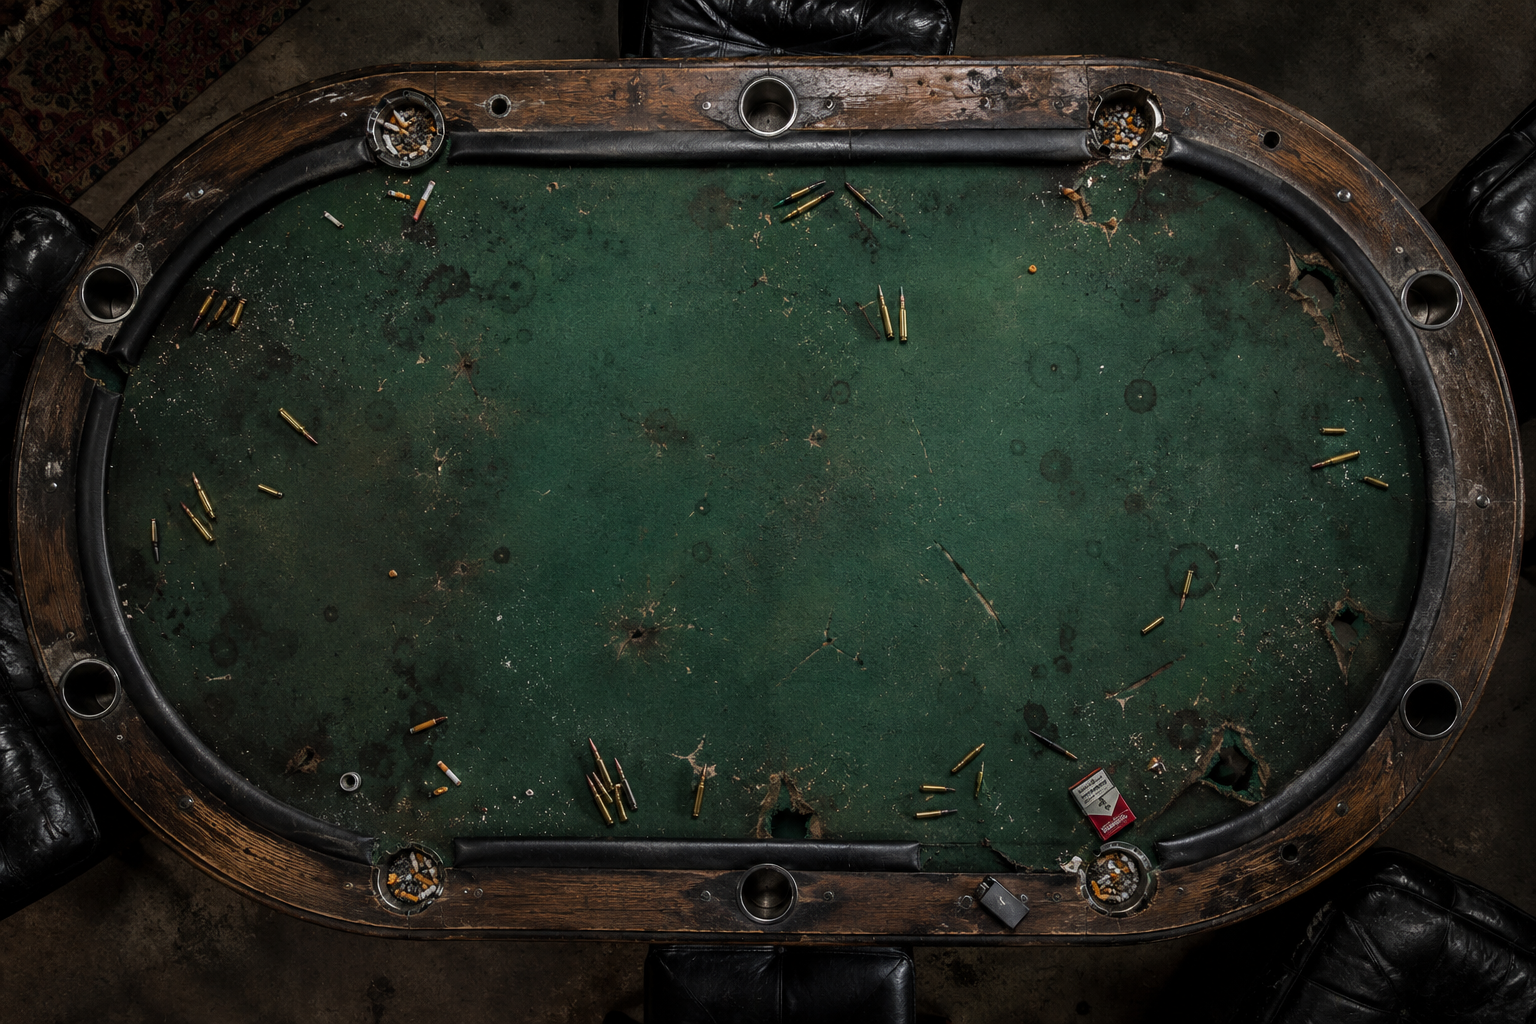
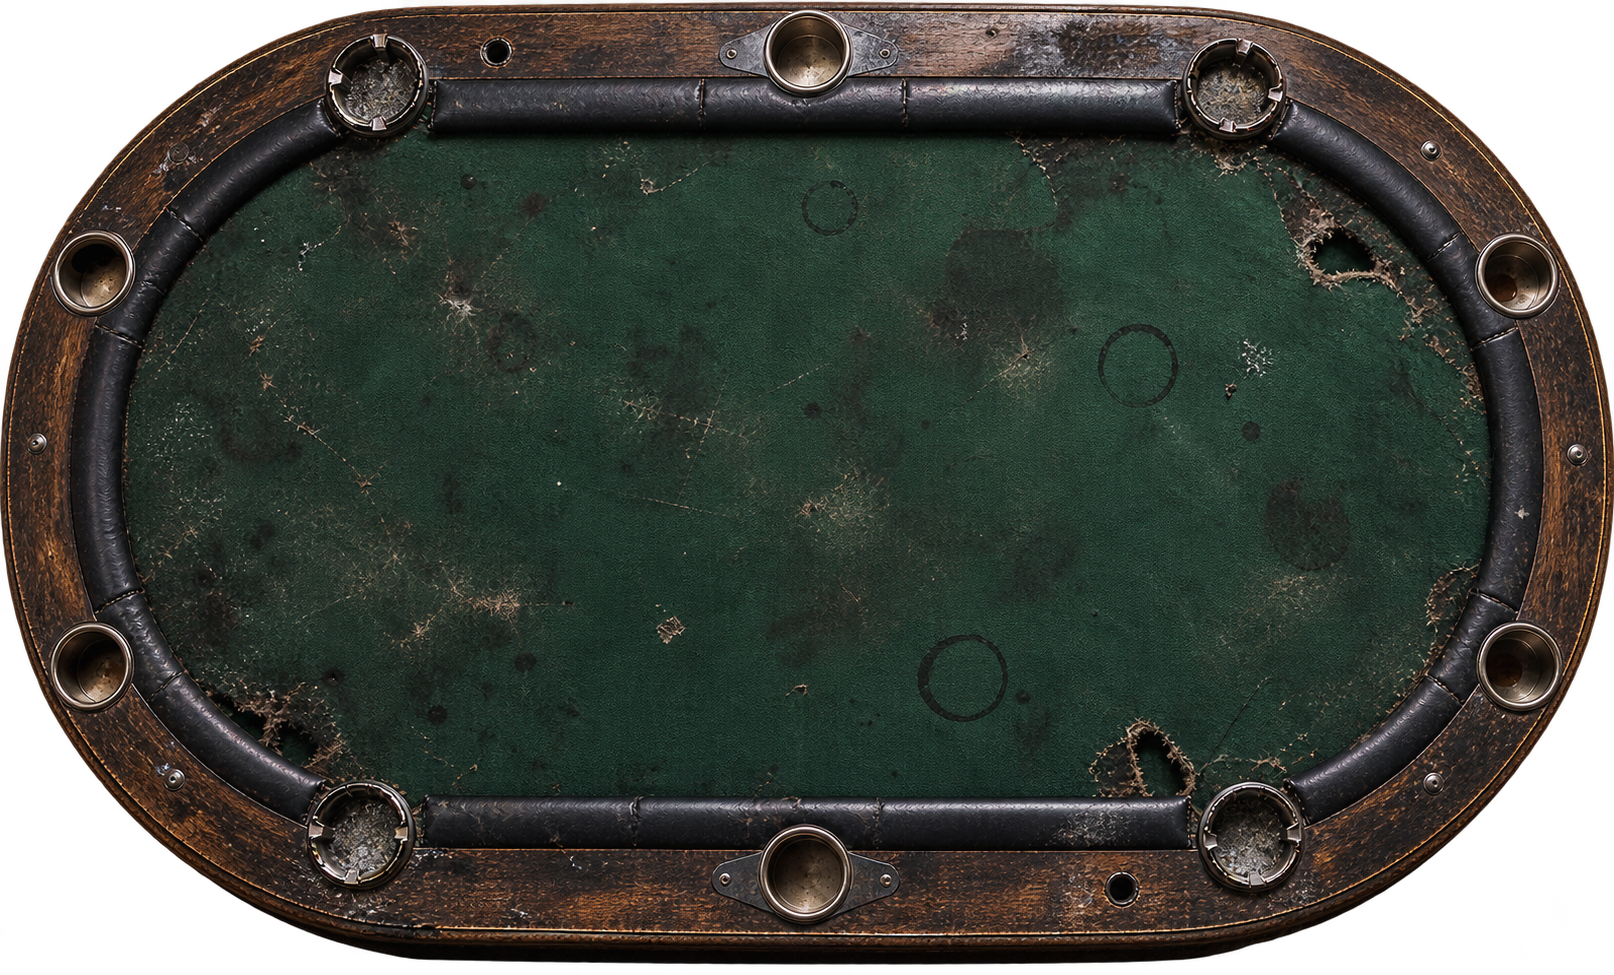
Put the controls under the table, and fade on the way out
The new table art is an oval cut out of its background, and an oval has
much less usable room than the rectangle around it. Measured off the
image rather than guessed: the cloth starts 8.4% in from the left,
7.9% from the right, 14.6% down and 18.7% up, leaving 1230 by 654 --
and it narrows to 58% of the table's width near the bottom edge. The
betting bar is 1340 wide and the layout wants 750 of height. None of it
fits.

So the cloth carries the dealer and the player's hands, and the betting
bar and buttons sit beneath the table on the dark. That is not a
concession to the artwork; it is how a real table is arranged, and it
gives the controls room they never had.

The painted rules are gone with it. They were flavour, and this felt
has plenty of its own.

Leaving the table also fades now. A full-screen dim and a table
disappearing between one frame and the next reads as a glitch rather
than as leaving; a sixth of a second is enough. Clicks are ignored
while it is on its way out, so a stray one cannot deal a hand at a
table that is closing, and the fade falls back to switching off
outright if there is no MonoBehaviour to run the coroutine.

diff --git a/src/Blackjack.Client/BlackjackPanel.cs b/src/Blackjack.Client/BlackjackPanel.cs
@@ -1,4 +1,5 @@
 using System;
+using System.Collections;
 using System.Collections.Generic;
 using System.Linq;
 using Newtonsoft.Json.Linq;
@@ -50,6 +51,8 @@ namespace Blackjack.Client
         private static RectTransform _actionRow;
         private static GameObject _betControls;
         private static GameObject _bettingSpot;
+        private static CanvasGroup _fade;
+        private static Coroutine _fading;
         private static GameObject _leave;
         private static GameObject _confirm;
         private static TextMeshProUGUI _confirmText;
@@ -105,6 +108,7 @@ namespace Blackjack.Client
                 }
 
                 _root.SetActive(true);
+                StartFade(1f, false);
 
                 // A canvas built this frame has not had a layout pass yet, so its
                 // controls have no real size or position until one happens. Anything
@@ -134,7 +138,63 @@ namespace Blackjack.Client
                 _confirm.SetActive(false);
             }
 
-            if (_root != null)
+            if (_root == null || !_root.activeSelf)
+            {
+                return;
+            }
+
+            // Faded rather than switched off. A full-screen dim and a table vanishing
+            // between one frame and the next reads as a glitch; a sixth of a second is
+            // enough to read as leaving.
+            StartFade(0f, true);
+        }
+
+        private static void StartFade(float target, bool deactivateAfter)
+        {
+            if (_fade == null || BlackjackClientPlugin.Instance == null)
+            {
+                // No coroutine to run it, so snap and stay correct.
+                if (_fade != null)
+                {
+                    _fade.alpha = target;
+                }
+
+                if (deactivateAfter && _root != null)
+                {
+                    _root.SetActive(false);
+                }
+
+                return;
+            }
+
+            if (_fading != null)
+            {
+                BlackjackClientPlugin.Instance.StopCoroutine(_fading);
+            }
+
+            _fading = BlackjackClientPlugin.Instance.StartCoroutine(FadeTo(target, deactivateAfter));
+        }
+
+        private static IEnumerator FadeTo(float target, bool deactivateAfter)
+        {
+            const float duration = 0.16f;
+            var from = _fade.alpha;
+
+            // Clicks are ignored while it is on its way out, so a stray one during the
+            // fade cannot deal a hand at a table that is closing.
+            _fade.interactable = !deactivateAfter;
+            _fade.blocksRaycasts = !deactivateAfter;
+
+            for (var t = 0f; t < duration; t += Time.unscaledDeltaTime)
+            {
+                _fade.alpha = Mathf.Lerp(from, target, t / duration);
+                yield return null;
+            }
+
+            _fade.alpha = target;
+            _fading = null;
+
+            if (deactivateAfter && _root != null)
             {
                 _root.SetActive(false);
             }
@@ -485,34 +545,54 @@ namespace Blackjack.Client
 
             _root = canvasObject;
 
+            _fade = canvasObject.AddComponent<CanvasGroup>();
+            _fade.alpha = 0f;
+
             var backdrop = NewBox("Backdrop", canvasObject.transform, new Color(0f, 0f, 0f, 0.86f), 0, default, 0);
             Stretch(backdrop);
 
-            // A photograph of a real table if one is installed beside the plugin,
-            // otherwise the drawn one. The photograph is a loose PNG so it can be
-            // swapped for another without rebuilding anything.
+            // The table above, the controls under it.
+            //
+            // The photograph is an oval, and an oval has far less usable room than the
+            // rectangle it sits in: measured, the felt is 1230 by 654 with the cloth
+            // narrowing to 58% of the table's width near the bottom edge. The betting
+            // bar is 1340 wide and the whole layout wants 750 of height, so none of it
+            // fits inside. Putting the cloth above and the controls beneath it is not a
+            // compromise either -- it is how a real table is arranged.
+            var root = NewBox("Root", canvasObject.transform, new Color(0f, 0f, 0f, 0f), 0, default, 0);
+            root.anchorMin = root.anchorMax = new Vector2(0.5f, 0.5f);
+            root.pivot = new Vector2(0.5f, 0.5f);
+            root.sizeDelta = new Vector2(1400f, 1060f);
+
+            var rootColumn = root.gameObject.AddComponent<VerticalLayoutGroup>();
+            rootColumn.childAlignment = TextAnchor.MiddleCenter;
+            rootColumn.spacing = 14f;
+            rootColumn.childForceExpandWidth = false;
+            rootColumn.childForceExpandHeight = false;
+            rootColumn.childControlWidth = false;
+            rootColumn.childControlHeight = false;
+
             var photo = Textures.FromFile(TableImagePath);
             RectTransform felt;
 
             if (photo != null)
             {
-                var table = NewImage("Table", canvasObject.transform, Color.white);
+                var table = NewImage("Table", root, Color.white);
                 table.sprite = photo;
                 table.preserveAspect = true;
                 var tableRect = (RectTransform)table.transform;
-                tableRect.anchorMin = tableRect.anchorMax = new Vector2(0.5f, 0.5f);
-                tableRect.pivot = new Vector2(0.5f, 0.5f);
-                tableRect.sizeDelta = new Vector2(1470f, 980f);
+                SetSize(tableRect, 1324f, 800f);
 
                 felt = tableRect;
-                _feltInset = new Vector4(112f, 96f, 112f, 104f);
+
+                // Measured off the image: the cloth begins 8.4% in from the left, 7.9%
+                // from the right, 14.6% down from the top and 18.7% up from the bottom.
+                _feltInset = new Vector4(112f, 118f, 106f, 150f);
             }
             else
             {
-                var rim = NewBox("Rim", canvasObject.transform, FeltEdge, 26, Rail, 6);
-                rim.anchorMin = rim.anchorMax = new Vector2(0.5f, 0.5f);
-                rim.pivot = new Vector2(0.5f, 0.5f);
-                rim.sizeDelta = new Vector2(1460f, 900f);
+                var rim = NewBox("Rim", root, FeltEdge, 26, Rail, 6);
+                SetSize(rim, 1324f, 800f);
 
                 felt = NewBox("Felt", rim, Felt, 20, default, 0);
                 felt.anchorMin = Vector2.zero;
@@ -520,27 +600,25 @@ namespace Blackjack.Client
                 felt.offsetMin = new Vector2(18f, 18f);
                 felt.offsetMax = new Vector2(-18f, -18f);
 
-                // Lit from the middle rather than flat. The cheapest thing that stops a
-                // green rectangle reading as a green rectangle.
                 var vignette = NewImage("Vignette", felt, Color.white);
                 vignette.sprite = Textures.Vignette(new Color(0f, 0f, 0f, 0.55f));
                 vignette.raycastTarget = false;
                 Stretch((RectTransform)vignette.transform);
 
-                _feltInset = new Vector4(30f, 22f, 30f, 84f);
+                _feltInset = new Vector4(30f, 26f, 30f, 30f);
             }
 
             BuildHeader(felt);
 
-            // Everything on the cloth in one column. Placing the dealer, the hands and
-            // the controls as separate regions meant each was individually plausible
-            // and any two could still collide -- a settled hand's BLACKJACK label
-            // landed on the betting bar, because a won hand is taller than a live one
-            // and nothing said where the space came from. A layout group settles it.
+            // What is on the cloth, in one column: the dealer, then the player. Placing
+            // them as separate regions meant each was individually plausible and any
+            // two could still collide -- a settled hand's BLACKJACK label landed on the
+            // betting bar, because a won hand is taller than a live one and nothing
+            // said where the space came from.
             var column = NewBox("Column", felt, new Color(0f, 0f, 0f, 0f), 0, default, 0);
             Stretch(column);
             column.offsetMin = new Vector2(_feltInset.x, _feltInset.y);
-            column.offsetMax = new Vector2(-_feltInset.z, -_feltInset.w);
+            column.offsetMax = new Vector2(-_feltInset.z, -(_feltInset.w + 46f));
 
             var flow = column.gameObject.AddComponent<VerticalLayoutGroup>();
             flow.childAlignment = TextAnchor.UpperCenter;
@@ -551,9 +629,10 @@ namespace Blackjack.Client
             flow.childControlHeight = false;
 
             BuildDealer(column);
-            BuildTableMarkings(column);
             BuildHands(column);
-            BuildBottom(column);
+
+            // Under the table, on the dark, where there is room for a full-width bar.
+            BuildBottom(root);
             BuildConfirm(canvasObject.transform);
 
             EnsureEventSystem();
@@ -563,15 +642,16 @@ namespace Blackjack.Client
 
         private static void BuildHeader(RectTransform felt)
         {
-            // Inside the cloth rather than on the rail, since the rail is now a
-            // photograph of wood and text sitting on it looks stuck there.
-            var inset = _feltInset.y + 26f;
+            // Inside the cloth rather than on the rail: the rail is a photograph of
+            // wood, and text on it looks stuck to the furniture. Kept well in from the
+            // sides too, because the oval narrows towards the top.
+            var inset = _feltInset.y + 22f;
 
-            var title = Label(felt, "BLACKJACK", 30f, Ink, TextAlignmentOptions.Left);
-            Anchor(title.rectTransform, new Vector2(0f, 1f), new Vector2(0f, 1f), new Vector2(_feltInset.x + 210f, -inset), new Vector2(400f, 40f));
+            var title = Label(felt, "BLACKJACK", 26f, Ink, TextAlignmentOptions.Left);
+            Anchor(title.rectTransform, new Vector2(0f, 1f), new Vector2(0f, 1f), new Vector2(_feltInset.x + 220f, -inset), new Vector2(400f, 34f));
 
-            _balance = Label(felt, "", 24f, Ink, TextAlignmentOptions.Right);
-            Anchor(_balance.rectTransform, new Vector2(1f, 1f), new Vector2(1f, 1f), new Vector2(-(_feltInset.z + 240f), -inset), new Vector2(460f, 40f));
+            _balance = Label(felt, "", 22f, Ink, TextAlignmentOptions.Right);
+            Anchor(_balance.rectTransform, new Vector2(1f, 1f), new Vector2(1f, 1f), new Vector2(-(_feltInset.z + 250f), -inset), new Vector2(460f, 34f));
         }
 
         private static void BuildDealer(RectTransform column)
@@ -579,17 +659,10 @@ namespace Blackjack.Client
             SetSize(Label(column, "DEALER", 19f, Faint, TextAlignmentOptions.Center).rectTransform, 400f, 24f);
 
             _dealerCards = NewRow("DealerCards", column, 10f);
-            SetSize(_dealerCards, 900f, CardView.Height);
+            SetSize(_dealerCards, 820f, CardView.Height);
 
             _dealerValue = Label(column, "", 26f, Ink, TextAlignmentOptions.Center);
             SetSize(_dealerValue.rectTransform, 300f, 30f);
-        }
-
-        private static void BuildTableMarkings(RectTransform column)
-        {
-            SetSize(
-                Label(column, "BLACKJACK PAYS 3 TO 2      DEALER MUST STAND ON 17", 19f, Gold, TextAlignmentOptions.Center).rectTransform,
-                1000f, 26f);
         }
 
         /// <summary>
@@ -600,7 +673,7 @@ namespace Blackjack.Client
         private static void BuildHands(RectTransform column)
         {
             var area = NewBox("HandArea", column, new Color(0f, 0f, 0f, 0f), 0, default, 0);
-            SetSize(area, 1300f, 232f);
+            SetSize(area, 1000f, 226f);
 
             var spot = NewImage("Spot", area, Gold);
             spot.sprite = Textures.Ring(Gold);
